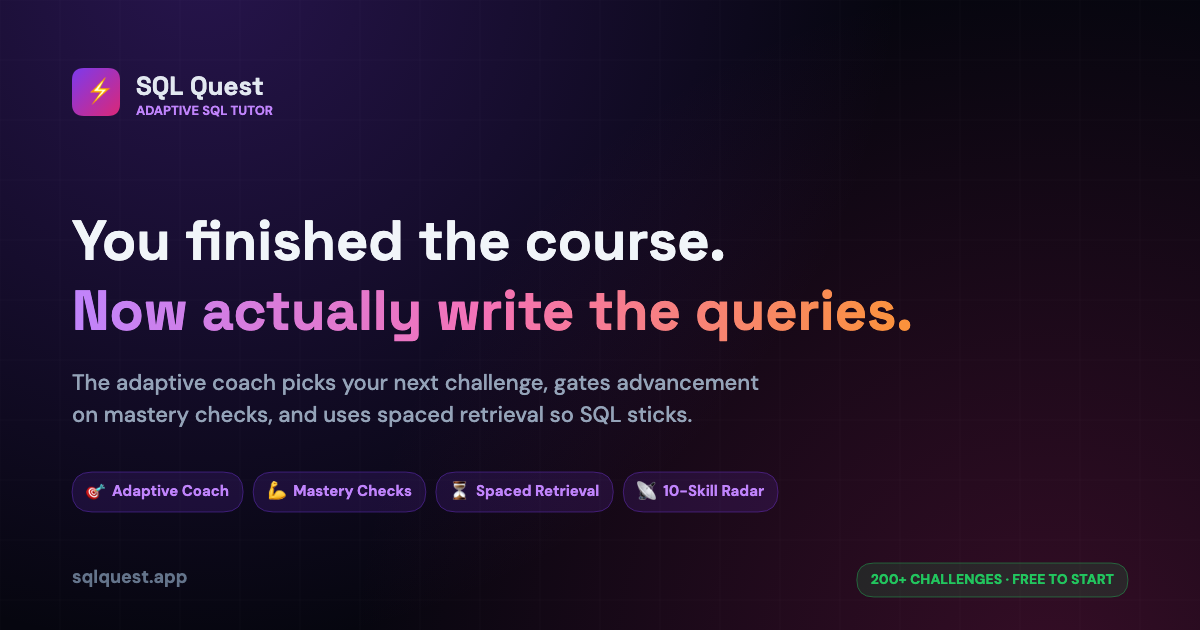
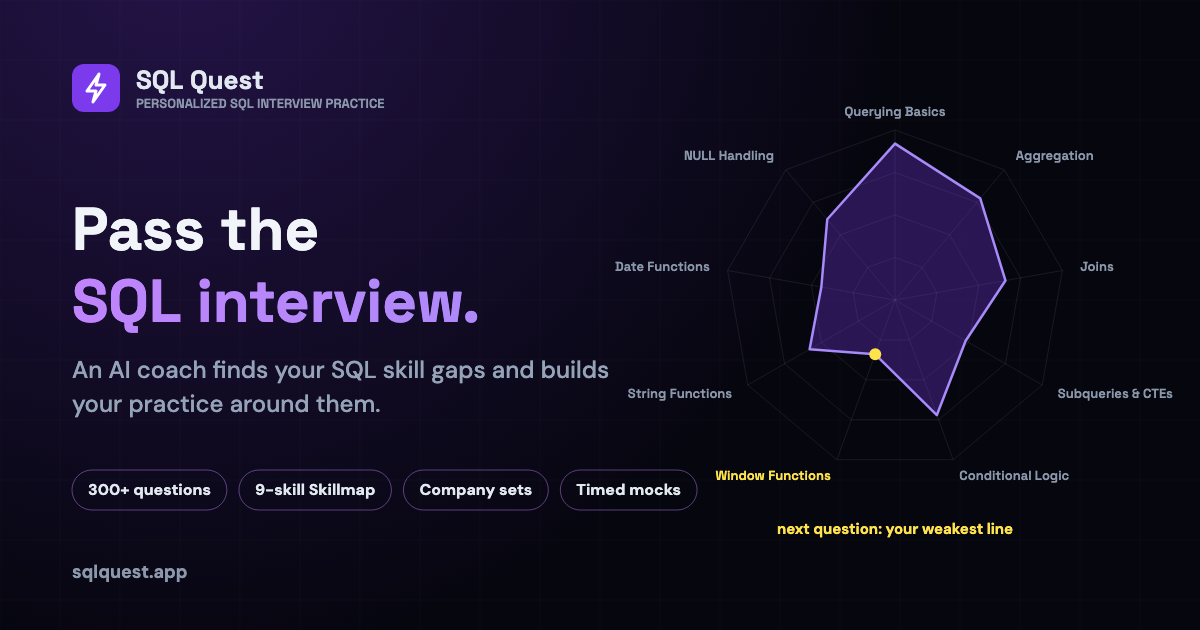
feat(og): the share card says what the product is now
'Pass the SQL interview.', the nine-axis Skillmap with the weakest line
marked, '300+ questions' — the old card sold an adaptive tutor, a 10-skill
radar and 200+ challenges. Shipped with the bank crossing 300.

diff --git a/scripts/og-render-template.html b/scripts/og-render-template.html
@@ -1,8 +1,19 @@
 <!DOCTYPE html>
 <html><head><meta charset="UTF-8">
+<!--
+  The og:image every shared link unfurls with (public/og-image.png).
+  Rebuilt 2026-09-24 (founder's request): the old card still sold the
+  "Adaptive SQL tutor", a "10-Skill Radar" and "200+ challenges" — the
+  positioning since 2026-09-13 is personalized SQL interview practice, the
+  Skillmap has nine skills, and the bank passed 300. The bank count here is
+  the rounded public form ("300+"), the same floor-to-50 the site uses;
+  update it when the bank crosses 350. Homepage type and colours: Space
+  Grotesk / DM Sans, purple brand, yellow only on the action.
+  Rebuild: bash scripts/build-og.sh (needs the :4321 static server).
+-->
 <link rel="preconnect" href="https://fonts.googleapis.com">
 <link rel="preconnect" href="https://fonts.gstatic.com" crossorigin>
-<link href="https://fonts.googleapis.com/css2?family=Space+Grotesk:wght@400;600;700;800&family=DM+Sans:wght@400;500;700;800&display=swap" rel="stylesheet">
+<link href="https://fonts.googleapis.com/css2?family=Space+Grotesk:wght@600;700;800&family=DM+Sans:wght@400;500;700&display=swap" rel="stylesheet">
 <style>html,body{margin:0;padding:0;background:#06060f;overflow:hidden}canvas{display:block}</style>
 </head><body>
 <canvas id="og" width="1200" height="630"></canvas>
@@ -10,107 +21,98 @@
 (async () => {
   const ctx = document.getElementById('og').getContext('2d');
   const W = 1200, H = 630;
-  await document.fonts.load('800 56px "Space Grotesk"');
-  await document.fonts.load('500 22px "DM Sans"');
-  await document.fonts.load('700 15px "DM Sans"');
+  await document.fonts.load('800 60px "Space Grotesk"');
+  await document.fonts.load('600 16px "Space Grotesk"');
+  await document.fonts.load('500 24px "DM Sans"');
+  await document.fonts.load('700 16px "DM Sans"');
   await document.fonts.ready;
 
+  // background: near-black, one quiet purple glow, faint grid
   ctx.fillStyle = '#06060f'; ctx.fillRect(0, 0, W, H);
-
-  const g1 = ctx.createRadialGradient(200, -50, 0, 200, -50, 700);
-  g1.addColorStop(0, 'rgba(124,58,237,0.28)'); g1.addColorStop(1, 'rgba(124,58,237,0)');
+  const g1 = ctx.createRadialGradient(180, -60, 0, 180, -60, 720);
+  g1.addColorStop(0, 'rgba(124,58,237,0.26)'); g1.addColorStop(1, 'rgba(124,58,237,0)');
   ctx.fillStyle = g1; ctx.fillRect(0, 0, W, H);
-
-  const g2 = ctx.createRadialGradient(W - 150, H + 50, 0, W - 150, H + 50, 700);
-  g2.addColorStop(0, 'rgba(219,39,119,0.22)'); g2.addColorStop(1, 'rgba(219,39,119,0)');
-  ctx.fillStyle = g2; ctx.fillRect(0, 0, W, H);
-
   ctx.strokeStyle = 'rgba(255,255,255,0.025)'; ctx.lineWidth = 1;
   for (let x = 0; x < W; x += 60) { ctx.beginPath(); ctx.moveTo(x, 0); ctx.lineTo(x, H); ctx.stroke(); }
   for (let y = 0; y < H; y += 60) { ctx.beginPath(); ctx.moveTo(0, y); ctx.lineTo(W, y); ctx.stroke(); }
 
-  const logoX = 72, logoY = 68;
-  const lg = ctx.createLinearGradient(logoX, logoY, logoX + 48, logoY + 48);
-  lg.addColorStop(0, '#7c3aed'); lg.addColorStop(1, '#db2777');
-  ctx.fillStyle = lg;
-  roundRect(ctx, logoX, logoY, 48, 48, 12); ctx.fill();
-  ctx.fillStyle = '#fff';
-  ctx.font = 'bold 28px "Space Grotesk"'; ctx.textBaseline = 'middle';
-  ctx.fillText('⚡', logoX + 14, logoY + 26);
+  // logo: purple tile with a line bolt, wordmark, grey eyebrow
+  const lx = 72, ly = 64;
+  ctx.fillStyle = '#7c3aed'; roundRect(ctx, lx, ly, 48, 48, 12); ctx.fill();
+  ctx.strokeStyle = '#ffffff'; ctx.lineWidth = 3; ctx.lineJoin = 'round';
+  ctx.beginPath();
+  ctx.moveTo(lx + 27, ly + 10); ctx.lineTo(lx + 15, ly + 27); ctx.lineTo(lx + 24, ly + 27);
+  ctx.lineTo(lx + 21, ly + 38); ctx.lineTo(lx + 33, ly + 21); ctx.lineTo(lx + 24, ly + 21); ctx.closePath();
+  ctx.stroke();
+  ctx.textBaseline = 'middle';
+  ctx.fillStyle = '#e2e8f0'; ctx.font = '800 26px "Space Grotesk"';
+  ctx.fillText('SQL Quest', lx + 64, ly + 18);
+  ctx.fillStyle = '#8b98ab'; ctx.font = '600 13px "Space Grotesk"';
+  ctx.fillText('PERSONALIZED SQL INTERVIEW PRACTICE', lx + 64, ly + 40);
 
-  ctx.fillStyle = '#e2e8f0';
-  ctx.font = '800 26px "Space Grotesk"';
-  ctx.fillText('SQL Quest', logoX + 64, logoY + 20);
-
-  ctx.fillStyle = '#c084fc';
-  ctx.font = '700 13px "DM Sans"';
-  ctx.fillText('ADAPTIVE SQL TUTOR', logoX + 64, logoY + 44);
-
+  // headline: white first half, purple second half (the hero's .gt)
   ctx.textBaseline = 'alphabetic';
-  ctx.fillStyle = '#f1f5f9';
-  ctx.font = '800 56px "Space Grotesk"';
-  ctx.fillText('You finished the course.', 72, 260);
-
-  const tg = ctx.createLinearGradient(72, 280, 900, 340);
-  tg.addColorStop(0, '#c084fc'); tg.addColorStop(0.5, '#f472b6'); tg.addColorStop(1, '#fb923c');
+  ctx.fillStyle = '#f1f5f9'; ctx.font = '800 60px "Space Grotesk"';
+  ctx.fillText('Pass the', 72, 250);
+  const tg = ctx.createLinearGradient(72, 270, 640, 330);
+  tg.addColorStop(0, '#c084fc'); tg.addColorStop(1, '#a78bfa');
   ctx.fillStyle = tg;
-  ctx.font = '800 56px "Space Grotesk"';
-  ctx.fillText('Now actually write the queries.', 72, 330);
+  ctx.fillText('SQL interview.', 72, 322);
 
-  ctx.fillStyle = '#94a3b8';
-  ctx.font = '500 22px "DM Sans"';
-  ctx.fillText('The adaptive coach picks your next challenge, gates advancement', 72, 390);
-  ctx.fillText('on mastery checks, and uses spaced retrieval so SQL sticks.', 72, 422);
+  ctx.fillStyle = '#94a3b8'; ctx.font = '500 24px "DM Sans"';
+  wrap(ctx, 'An AI coach finds your SQL skill gaps and builds your practice around them.', 72, 378, 560, 34);
 
-  const chips = [
-    { icon: '🎯', label: 'Adaptive Coach' },
-    { icon: '💪', label: 'Mastery Checks' },
-    { icon: '⏳', label: 'Spaced Retrieval' },
-    { icon: '📡', label: '10-Skill Radar' },
-  ];
-  let chipX = 72;
-  const chipY = 472;
-  ctx.font = '700 15px "DM Sans"';
-  for (const chip of chips) {
-    const label = chip.icon + '  ' + chip.label;
-    const w = ctx.measureText(label).width + 28;
-    ctx.fillStyle = 'rgba(124,58,237,0.14)';
-    ctx.strokeStyle = 'rgba(124,58,237,0.38)'; ctx.lineWidth = 1;
-    roundRect(ctx, chipX, chipY, w, 40, 20); ctx.fill(); ctx.stroke();
-    ctx.fillStyle = '#c084fc'; ctx.textBaseline = 'middle';
-    ctx.fillText(label, chipX + 14, chipY + 20);
-    ctx.textBaseline = 'alphabetic';
-    chipX += w + 10;
+  // chips, line style
+  const chips = ['300+ questions', '9-skill Skillmap', 'Company sets', 'Timed mocks'];
+  let cx = 72; const cy = 470;
+  ctx.font = '700 16px "DM Sans"';
+  for (const c of chips) {
+    const w = ctx.measureText(c).width + 32;
+    ctx.strokeStyle = 'rgba(192,132,252,0.45)'; ctx.lineWidth = 1;
+    roundRect(ctx, cx, cy, w, 40, 20); ctx.stroke();
+    ctx.fillStyle = '#e2e8f0'; ctx.textBaseline = 'middle';
+    ctx.fillText(c, cx + 16, cy + 21);
+    cx += w + 12;
   }
 
-  ctx.fillStyle = '#64748b';
-  ctx.font = '700 18px "DM Sans"';
-  ctx.fillText('sqlquest.app', 72, 583);
+  // footer: domain and the one action
+  ctx.textBaseline = 'alphabetic';
+  ctx.fillStyle = '#8b98ab'; ctx.font = '700 18px "DM Sans"';
+  ctx.fillText('sqlquest.app', 72, 578);
 
-  ctx.font = '800 14px "DM Sans"';
-  const freeLabel = '200+ CHALLENGES · FREE TO START';
-  const freeW = ctx.measureText(freeLabel).width + 28;
-  const freeX = W - 72 - freeW;
-  ctx.fillStyle = 'rgba(34,197,94,0.14)';
-  ctx.strokeStyle = 'rgba(34,197,94,0.42)';
-  roundRect(ctx, freeX, 563, freeW, 34, 17); ctx.fill(); ctx.stroke();
-  ctx.fillStyle = '#22c55e'; ctx.textBaseline = 'middle';
-  ctx.fillText(freeLabel, freeX + 14, 580);
+  // the Skillmap: nine axes, one person's shape
+  const skills = ['Querying Basics','Aggregation','Joins','Subqueries & CTEs','Conditional Logic','Window Functions','String Functions','Date Functions','NULL Handling'];
+  const vals =   [0.92, 0.78, 0.66, 0.48, 0.72, 0.34, 0.58, 0.44, 0.62];
+  const rx = 895, ry = 300, R = 170, n = skills.length;
+  const pt = (i, r) => { const a = -Math.PI / 2 + i * 2 * Math.PI / n; return [rx + r * Math.cos(a), ry + r * Math.sin(a)]; };
+  ctx.strokeStyle = 'rgba(255,255,255,0.08)'; ctx.lineWidth = 1;
+  for (const f of [0.25, 0.5, 0.75, 1]) {
+    ctx.beginPath(); for (let i = 0; i < n; i++) { const [x, y] = pt(i, R * f); i ? ctx.lineTo(x, y) : ctx.moveTo(x, y); } ctx.closePath(); ctx.stroke();
+  }
+  for (let i = 0; i < n; i++) { const [x, y] = pt(i, R); ctx.beginPath(); ctx.moveTo(rx, ry); ctx.lineTo(x, y); ctx.stroke(); }
+  ctx.beginPath(); for (let i = 0; i < n; i++) { const [x, y] = pt(i, R * vals[i]); i ? ctx.lineTo(x, y) : ctx.moveTo(x, y); } ctx.closePath();
+  ctx.fillStyle = 'rgba(124,58,237,0.30)'; ctx.fill();
+  ctx.strokeStyle = '#a78bfa'; ctx.lineWidth = 2.5; ctx.stroke();
+  // the weakest line, marked the way the product marks it
+  const weak = vals.indexOf(Math.min(...vals));
+  const [wx, wy] = pt(weak, R * vals[weak]);
+  ctx.fillStyle = '#FFE34D'; ctx.beginPath(); ctx.arc(wx, wy, 6, 0, Math.PI * 2); ctx.fill();
+  ctx.font = '600 13px "Space Grotesk"'; ctx.fillStyle = '#8b98ab'; ctx.textBaseline = 'middle';
+  for (let i = 0; i < n; i++) {
+    const [x, y] = pt(i, R + 18); const label = skills[i];
+    ctx.textAlign = x < rx - 10 ? 'right' : (x > rx + 10 ? 'left' : 'center');
+    ctx.fillStyle = i === weak ? '#FFE34D' : '#8b98ab';
+    ctx.fillText(label, x, y);
+  }
+  ctx.textAlign = 'left';
+  ctx.fillStyle = '#FFE34D'; ctx.font = '700 15px "DM Sans"'; ctx.textAlign = 'center';
+  ctx.fillText('next question: your weakest line', rx, ry + R + 60);
+  ctx.textAlign = 'left';
 
-  document.body.dataset.ready = '1';
+  document.title = 'ready';
+
+  function roundRect(c, x, y, w, h, r) { c.beginPath(); c.moveTo(x + r, y); c.arcTo(x + w, y, x + w, y + h, r); c.arcTo(x + w, y + h, x, y + h, r); c.arcTo(x, y + h, x, y, r); c.arcTo(x, y, x + w, y, r); c.closePath(); }
+  function wrap(c, text, x, y, max, lh) { const words = text.split(' '); let line = ''; for (const w of words) { const t = line ? line + ' ' + w : w; if (c.measureText(t).width > max && line) { c.fillText(line, x, y); line = w; y += lh; } else line = t; } if (line) c.fillText(line, x, y); }
 })();
-
-function roundRect(ctx, x, y, w, h, r) {
-  ctx.beginPath();
-  ctx.moveTo(x + r, y); ctx.lineTo(x + w - r, y);
-  ctx.quadraticCurveTo(x + w, y, x + w, y + r);
-  ctx.lineTo(x + w, y + h - r);
-  ctx.quadraticCurveTo(x + w, y + h, x + w - r, y + h);
-  ctx.lineTo(x + r, y + h);
-  ctx.quadraticCurveTo(x, y + h, x, y + h - r);
-  ctx.lineTo(x, y + r);
-  ctx.quadraticCurveTo(x, y, x + r, y);
-  ctx.closePath();
-}
 </script>
 </body></html>

diff --git a/docs/plans/seo-authority-2026-09-22.md b/docs/plans/seo-authority-2026-09-22.md
@@ -67,7 +67,11 @@ Read in the weekly SEO file: referrals from kaggle.com and github.com.
 Same day: provenance, per-file descriptions, update frequency "Never" and a
 dataset cover (dark palette, a four-line SQL query, the four row counts —
 not the site's og-image) took Kaggle's usability score from 2.35 to 8.82;
-left: column descriptors (29) and a starter notebook. 9 views in the first
+left: column descriptors (29). **Starter notebook published the same
+day:** https://www.kaggle.com/code/goktugozdem/fraud-sql-starter-card-transactions
+— six fraud questions in SQL, run on Kaggle (24 s, no errors, numbers equal
+the README); the same .ipynb is in the GitHub repo and in
+datasets/card-transactions/. 9 views in the first
 hour.
 
 **Every number was re-counted from the files first (2026-09-24)** — the
@@ -78,8 +82,12 @@ description were corrected in the same pass.
 **Found on the way — the site's og-image is stale.** public/og-image.png,
 the card every shared link unfurls with, still says "Adaptive SQL tutor",
 "10-Skill Radar" and "200+ challenges" (the bank is 299, the Skillmap has
-nine skills, the positioning is interview practice). Needs a new image
-under the current positioning; not done here.
+nine skills, the positioning is interview practice). **Rebuilt
+2026-09-24** from scripts/og-render-template.html: "Pass the SQL interview.",
+the nine-axis Skillmap with the weakest line marked, chips "300+ questions ·
+9-skill Skillmap · Company sets · Timed mocks" — shipped with the bank
+crossing 300 (ids 312–316), never before it. Social caches refresh on their
+own schedule; LinkedIn's Post Inspector forces it.
 
 **Published 2026-09-24 on the founder's go:**
 https://github.com/goktugozdem2/card-transactions-sql-dataset — public,
